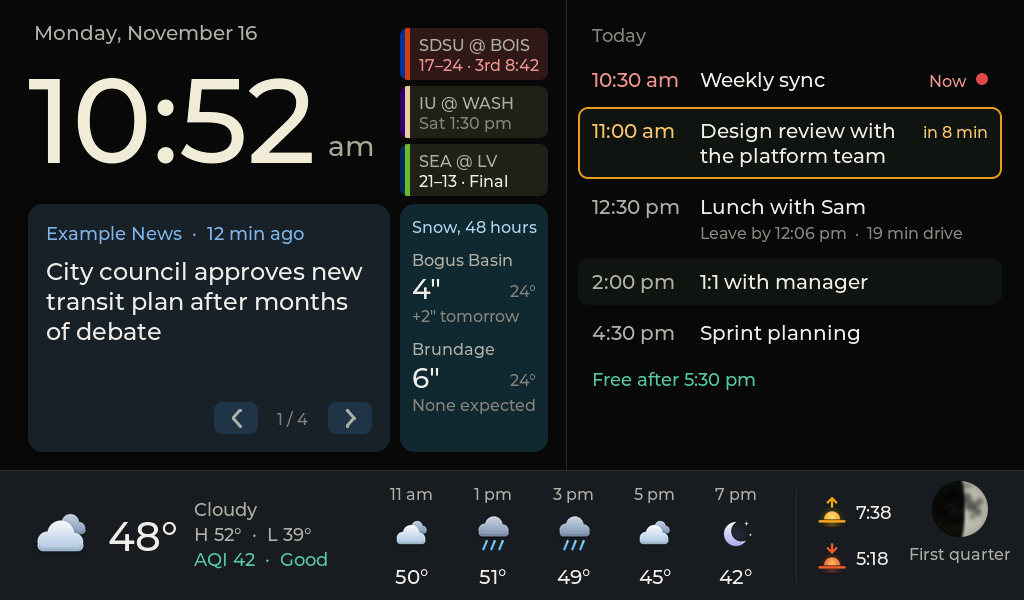
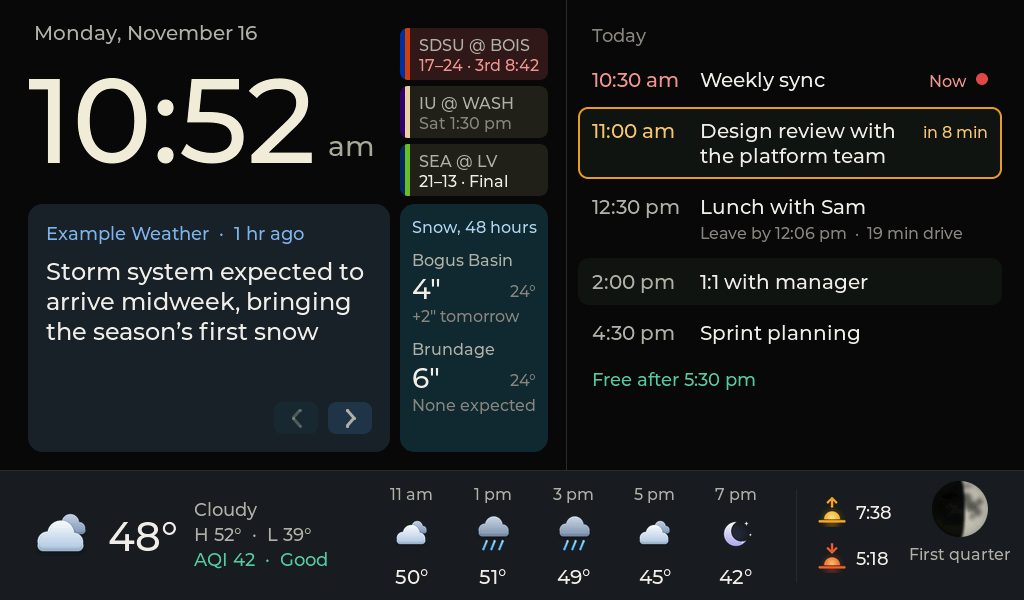
Display news: random order through every headline, no counter
- Server sends up to 150 headlines from the ticked feed widgets (was 12),
  with only the fields the display draws.
- Display picks headlines at random without repeating until all have
  been shown. Back returns through the ones just seen; forward moves on.
- The '7 / 12' counter is removed.

Changed region(s): [[0.0312, 0.36, 0.375, 0.57], [0.1875, 0.66, 0.25, 0.72], [0.2812, 0.69, 0.3125, 0.72]]

diff --git a/firmware/ui/dashboard.cpp b/firmware/ui/dashboard.cpp
@@ -3,6 +3,7 @@
 #include <cstdlib>
 #include <cstring>
 #include <string>
+#include <vector>
 
 #include "app.h"
 #include "icons.h"
@@ -14,7 +15,7 @@ constexpr int MAX_TITLE_LINES = 3;
 constexpr size_t MAX_CHIPS = 3;
 constexpr int CHIP_H = 52;
 constexpr int MOON_SIZE = 56;
-constexpr int NEWS_BTN_W = 44, NEWS_BTN_H = 32, NEWS_PAGER_W = 70;
+constexpr int NEWS_BTN_W = 44, NEWS_BTN_H = 32, NEWS_BTN_GAP = 10;
 // The game cards and the snow tile share one column, so their edges line up.
 constexpr int SIDE_X = 400, SIDE_W = 148;
 
@@ -24,47 +25,96 @@ const char* const MONTHS[] = {"January", "February", "March",     "April",   "Ma
                               "July",    "August",   "September", "October", "November", "December"};
 
 lv_obj_t *date_lbl, *time_lbl, *ampm_lbl;
-lv_obj_t *news_box, *news_src, *news_head, *news_pager, *news_prev, *news_next;
+lv_obj_t *news_box, *news_src, *news_head, *news_prev, *news_next;
 lv_obj_t *chips_box, *snow_box;
 lv_obj_t *today_hdr, *list;
 lv_obj_t *strip_box, *cur_icon, *cur_temp, *cur_cond, *cur_hl, *cur_air, *hour_box;
 lv_obj_t *sunrise_lbl, *sunset_lbl, *moon, *moon_lbl;
 
 Model model;
-size_t news_index = 0, game_index = 0;
+size_t game_index = 0;
 uint32_t last_scroll = 0;
 uint32_t news_hold_until = 0;  // after a tap on the arrows, the headline stays put until then
 constexpr uint32_t NEWS_HOLD_MS = 30000;
 std::string status_text = "Connecting to the server…";
 
+// Headlines are shown in random order. `trail` remembers the ones shown, so the back arrow
+// returns to what was just on screen and a headline does not come round again too soon.
+constexpr size_t TRAIL_MAX = 40;
+std::vector<NewsItem> trail;
+size_t trail_at = 0;
+
+bool in_trail(const std::string& title) {
+    for (const NewsItem& seen : trail) {
+        if (seen.title == title) return true;
+    }
+    return false;
+}
+
+// Adds a headline not seen lately to the end of the trail. False if there is nothing new.
+bool pick_headline() {
+    static bool seeded = false;
+    if (!seeded && model.valid) {
+        srand((unsigned)model.epoch ^ lv_tick_get());
+        seeded = true;
+    }
+    std::vector<size_t> fresh;
+    for (size_t i = 0; i < model.news.size(); i++) {
+        if (!in_trail(model.news[i].title)) fresh.push_back(i);
+    }
+    if (fresh.empty()) {  // everything has been shown: start over, but not with the same one
+        if (model.news.size() < 2) return false;
+        std::string last = trail.empty() ? "" : trail.back().title;
+        trail.clear();
+        for (size_t i = 0; i < model.news.size(); i++) {
+            if (model.news[i].title != last) fresh.push_back(i);
+        }
+    }
+    trail.push_back(model.news[fresh[rand() % fresh.size()]]);
+    if (trail.size() > TRAIL_MAX) trail.erase(trail.begin());
+    return true;
+}
+
 void show_headline() {
-    if (model.news.empty()) {
+    if (trail.empty() && !model.news.empty()) pick_headline();
+    if (trail.empty()) {
         lv_label_set_text(news_src, "News");
         lv_label_set_text(news_head, model.valid ? "No headlines right now" : "");
-        lv_label_set_text(news_pager, "");
         lv_obj_add_flag(news_prev, LV_OBJ_FLAG_HIDDEN);
         lv_obj_add_flag(news_next, LV_OBJ_FLAG_HIDDEN);
         return;
     }
-    bool several = model.news.size() > 1;
+    if (trail_at >= trail.size()) trail_at = trail.size() - 1;
+    bool several = model.news.size() > 1 || trail.size() > 1;
     lv_obj_update_flag(news_prev, LV_OBJ_FLAG_HIDDEN, !several);
     lv_obj_update_flag(news_next, LV_OBJ_FLAG_HIDDEN, !several);
-    news_index %= model.news.size();
-    const NewsItem& item = model.news[news_index];
+    lv_obj_set_style_opa(news_prev, trail_at > 0 ? LV_OPA_COVER : LV_OPA_40, 0);  // nothing earlier
+    NewsItem& item = trail[trail_at];
+    for (const NewsItem& latest : model.news) {  // keep "2 hr ago" current
+        if (latest.title == item.title) item.age = latest.age;
+    }
     std::string src = item.source;
     if (!item.age.empty()) src += "  ·  " + item.age;
     lv_label_set_text(news_src, src.c_str());
     lv_label_set_text(news_head, item.title.c_str());
-    lv_label_set_text_fmt(news_pager, "%d / %d", (int)news_index + 1, (int)model.news.size());
+}
+
+// Forward: the next one on the trail, or a new random headline at its end.
+void advance_headline() {
+    if (trail_at + 1 < trail.size()) trail_at++;
+    else if (pick_headline()) trail_at = trail.size() - 1;
+    show_headline();
 }
 
 // A tap on the arrows: one headline back or forward, then hold it there long enough to read.
 void step_headline(int by) {
-    size_t count = model.news.size();
-    if (count < 2) return;
-    news_index = (news_index + count + by) % count;
     news_hold_until = lv_tick_get() + NEWS_HOLD_MS;
-    show_headline();
+    if (by > 0) {
+        advance_headline();
+    } else if (trail_at > 0) {
+        trail_at--;
+        show_headline();
+    }
 }
 
 // A small arrow button for the news tile. The arrow is drawn, so it needs no font glyph.
@@ -395,16 +445,11 @@ void build(lv_obj_t* t) {
     lv_obj_set_pos(news_head, 0, 34);
     lv_obj_set_size(news_head, lv_pct(100), lv_font_get_line_height(&font_text_28) * 4);
     lv_label_set_long_mode(news_head, LV_LABEL_LONG_DOT);
-    // Bottom right: back arrow, "3 / 12", forward arrow.
+    // Bottom right: back and forward arrows.
     news_next = make_arrow(news_box, true);
     lv_obj_align(news_next, LV_ALIGN_BOTTOM_RIGHT, 0, 0);
-    news_pager = make_label(news_box, &font_text_16, C_DIM);
-    lv_obj_set_width(news_pager, NEWS_PAGER_W);
-    lv_obj_set_style_text_align(news_pager, LV_TEXT_ALIGN_CENTER, 0);
-    lv_obj_align(news_pager, LV_ALIGN_BOTTOM_RIGHT, -NEWS_BTN_W,
-                 -(NEWS_BTN_H - lv_font_get_line_height(&font_text_16)) / 2);
     news_prev = make_arrow(news_box, false);
-    lv_obj_align(news_prev, LV_ALIGN_BOTTOM_RIGHT, -(NEWS_BTN_W + NEWS_PAGER_W), 0);
+    lv_obj_align(news_prev, LV_ALIGN_BOTTOM_RIGHT, -(NEWS_BTN_W + NEWS_BTN_GAP), 0);
 
     snow_box = make_box(t);
     lv_obj_set_size(snow_box, SIDE_W, NEWS_H);
@@ -522,10 +567,7 @@ void tick() {
 
 void next_headline() {
     bool held = (int32_t)(lv_tick_get() - news_hold_until) < 0;
-    if (model.news.size() > 1 && !held) {
-        news_index++;
-        show_headline();
-    }
+    if (model.news.size() > 1 && !held) advance_headline();
     if (model.games.size() > MAX_CHIPS) {
         game_index = (game_index + 1) % model.games.size();
         show_games();

diff --git a/server/app/news.py b/server/app/news.py
@@ -60,7 +60,7 @@ def parse(content: bytes, name: str | None = None) -> list[dict]:
     return items
 
 
-def mix(per_feed: list[list[dict]], max_items: int = 12) -> list[dict]:
+def mix(per_feed: list[list[dict]], max_items: int = 150) -> list[dict]:
     """Takes headlines from each feed in turn, so one busy feed cannot fill the whole list."""
     seen: set[str] = set()
     mixed: list[dict] = []
@@ -72,7 +72,7 @@ def mix(per_feed: list[list[dict]], max_items: int = 12) -> list[dict]:
     return mixed[:max_items]
 
 
-def fetch(feeds: list[dict], max_items: int = 12) -> list[dict]:
+def fetch(feeds: list[dict], max_items: int = 150) -> list[dict]:
     per_feed: list[list[dict]] = []
     for feed in feeds:
         try:
@@ -90,5 +90,6 @@ def view(items: list[dict] | None, now_ts: float | None = None) -> list[dict]:
     out = []
     for item in items or []:
         age = age_label(now_ts - item["published"]) if item["published"] else ""
-        out.append({**item, "age": age, "kind": "news"})
+        # Only what the display draws: it holds the whole list in memory.
+        out.append({"title": item["title"], "source": item["source"], "age": age})
     return out

diff --git a/server/app/config.py b/server/app/config.py
@@ -47,7 +47,7 @@ DEFAULTS: dict[str, Any] = {
     },
     "news": {
         "refresh_minutes": 15,
-        "max_items": 12,
+        "max_items": 150,
     },
     "photos": {
         "drive_folder_id": "",
